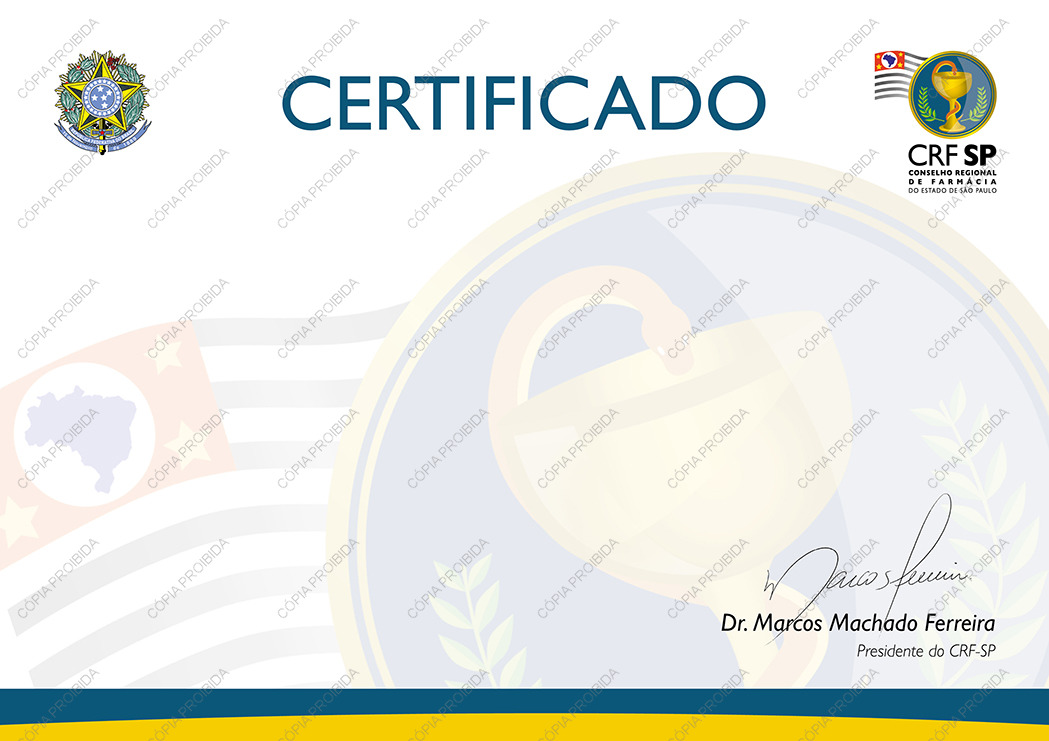
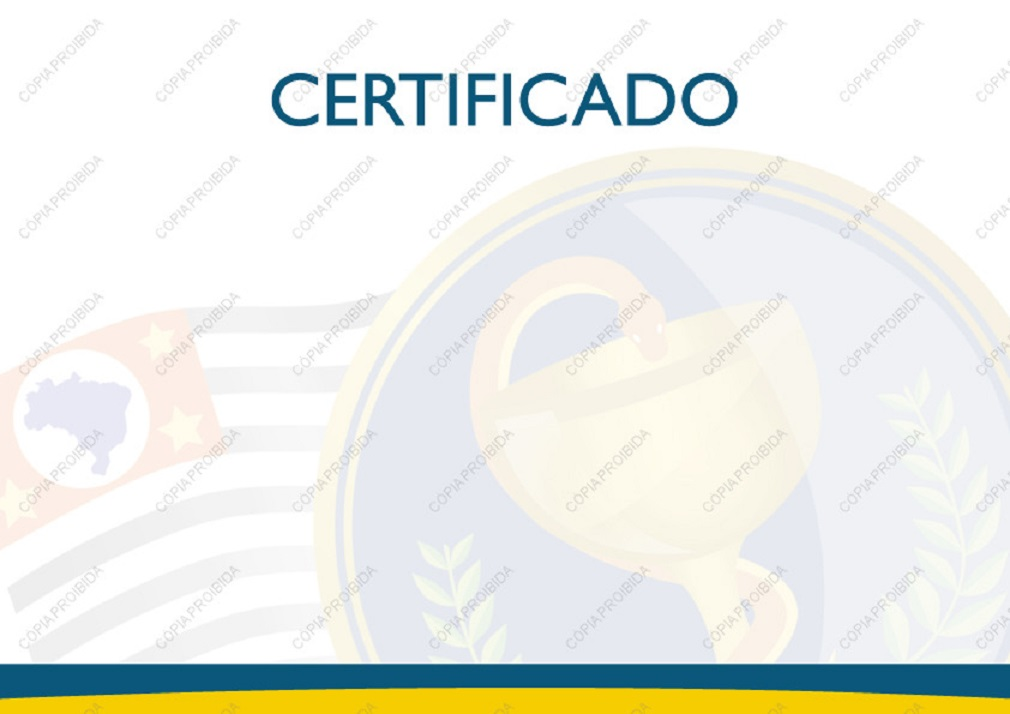
atualizaçoes 14/07

diff --git a/app/Controllers/Eventos.php b/app/Controllers/Eventos.php
@@ -173,7 +173,7 @@ class Eventos extends BaseController
                 $rules = [
                     'titulo' => 'trim|required|min_length[3]|max_length[60]',
                     'imagem' => 'uploaded[profile_image]', 'mime_in[profile_image,image/jpg,image/jpeg,image/gif,image/png]', 'max_size[profile_image,4096]',
-                    'resumo' => 'trim|required|min_length[100]|max_length[500]',
+                    'resumo' => 'trim|required|min_length[100]|max_length[1000]',
                 ];
                 // echo './public/img';exit;
                 if (!$this->validate($rules)) {
@@ -191,6 +191,7 @@ class Eventos extends BaseController
                             'dtInicio' => date($this->request->getVar('datainicial') . ' ' . $this->request->getVar('hinicial')),
                             'dtFim' => date($this->request->getVar('datafinal') . ' ' . $this->request->getVar('hfinal')),
                             'hora' => date('H:i:s', strtotime($this->request->getVar('datainicial') . ' ' . $this->request->getVar('hinicial'))),
+                            'userCreated' => session()->get('id'),
                         ];
 
                         if ($model->save($newData)) {
@@ -276,7 +277,7 @@ class Eventos extends BaseController
                             'dtInicio' => date($this->request->getVar('datainicial') . ' ' . $this->request->getVar('hinicial')),
                             'dtFim' => date($this->request->getVar('datafinal') . ' ' . $this->request->getVar('hfinal')),
                             'hora' => date('H:i:s', strtotime($this->request->getVar('datainicial') . ' ' . $this->request->getVar('hinicial'))),
-
+                            'userCreated' => session()->get('id'),
                         ];
 
                         if ($model->save($newData)) {
@@ -364,7 +365,7 @@ class Eventos extends BaseController
                 if (unlink($filePath)) {
                     $model->delete($product_id);
                     $session = session();
-                    $session->setFlashdata('success', 'Seu evento' . " " . $result['titulo'] . " " .  ' foi excluido com sucesso!');
+                    $session->setFlashdata('success', 'Seu evento' . " (" . $result['titulo'] . ") " .  ' foi excluido com sucesso!');
                     return redirect()->to(base_url("alterareventos"));
                 } else {
                     echo "Não foi possivel excluir, verifique permissões!";

diff --git a/app/Views/editativ.php b/app/Views/editativ.php
@@ -77,9 +77,11 @@
                         <?php endif; ?>
                         <form class="form-signin" method="post">
                             <div class="form-group">
+                           
                                 <div class="form-label-group">
                                     <select id="selectEvent" name="selectEvent" class="form-control" required>
-                                        <option selected disabled><? $data[0]['titulo'] ?></option>
+                                        <option selected disabled><?php if($data) { echo $titulo ;}?></option>
+                                        
                                         <?php
                                         foreach ($data as $key => $evento) {
                                             echo "<option value='" . $evento['id'] . "'>" . $evento['id'] . " - " . $evento['titulo'] . "</option>";
@@ -129,15 +131,11 @@
                             <div class="form-group col-sm-7">
                                 <div class="form-label-group">
                                     <select id="certificado" name="certificado" class="form-control">
-                                        <?
-                                        if ($data[0]['tipo'] == '1') {
-                                            $tipo = 'Gera certificado';
-                                         ?>
+                                   
                                         <option><?php $tipo ?></option>
                                         <option value="1" id="1">Gera certificado</option>
                                         <option value="2" id="2">Não gera certificado</option>
-
-                                        <? } ?>
+                           
                                     </select>
                                 </div>
                             </div>

diff --git a/app/Controllers/Atividades.php b/app/Controllers/Atividades.php
@@ -92,7 +92,7 @@ class Atividades extends BaseController
                         'dtInicio' => date($this->request->getVar('datainicial') . ' ' . $this->request->getVar('hinicial')),
                         'dtFim' => date($this->request->getVar('datafinal') . ' ' . $this->request->getVar('hfinal')),
                         'hora' => date('H:i:s', strtotime($this->request->getVar('datainicial') . ' ' . $this->request->getVar('hinicial'))),
-
+                        'userCreated' => session()->get('id'),
                     ];
 
                     $newData['atividade'] = htmlspecialchars($newData['atividade'], ENT_QUOTES, 'UTF-8');
@@ -138,11 +138,7 @@ class Atividades extends BaseController
                 'data' => $model1->findall(),
             ];
 
-            $dataAtiv = [
-                'title' => 'Editar evento',
-                'data' => $model->findall(),
-            ];
-
+          
 
             // var_dump($data); exit;
             helper(['form']);
@@ -167,7 +163,7 @@ class Atividades extends BaseController
                         'dtFim' => date($this->request->getVar('datafinal') . ' ' . $this->request->getVar('hfinal')),
                         'atividade' => $this->request->getVar('atividade'),
                         'hora' => date('H:i:s', strtotime($this->request->getVar('datainicial') . ' ' . $this->request->getVar('hinicial'))),
-
+                        'userCreated' => session()->get('id'),
                     ];
 
                     if ($model->save($newData)) {
@@ -182,7 +178,7 @@ class Atividades extends BaseController
                 }
             }
             echo view('templates/header', $data);
-            echo view('editativ', $result, $dataAtiv);
+            echo view('editativ', $result);
             echo view('templates/footer');
         }
     }

diff --git a/app/Views/certificadoVizualizacao.php b/app/Views/certificadoVizualizacao.php
@@ -30,6 +30,10 @@
             font-family: 'Oxygen', sans-serif;
         }
 
+        .p{
+            margin-top: -30px;
+        }
+
         h1,
         h2,
         h3,
@@ -87,20 +91,21 @@
         }
 
         article {
-            background-image: url(<?php echo(base_url('/public/img/certificadoProibido.jpg'));?>);
+            background-image: url(<?php echo (base_url('/public/img/certificado_Proibido2.jpg'));?>);
         }
+
     </style>
 </head>
 
 <body>
-<article id="conteudo-certificado" >
+<article id="conteudo-certificado"  >
     <?php if (count($data) > 0) {
             // var_dump($data);exit;
         ?>
             <section >
-                <p>Certificamos que <strong><?php echo $_SESSION['firstname'] . " "; ?><?php echo $_SESSION['lastname']; ?></strong></p>
-                <p>Participou do: <strong><?php echo $data['titulo']; ?></strong></p>
-                <p>Com carga horária de <strong>
+                <p class="p">Certificamos que <strong><?php echo $_SESSION['firstname'] . " "; ?><?php echo $_SESSION['lastname']; ?></strong></p>
+                <p class="p"> Participou do: <strong><?php echo $data['titulo']; ?></strong></p>
+                <p class="p">Com carga horária de <strong>
                 <?php echo $horas['horasTotais'];?> horas</strong>.</p>
 
                 <p class="data">Realizado nos dias <?php echo date_format(new DateTime($data['dtInicio']), "d/m"); ?> a <?php echo date_format(new DateTime($data['dtFim']), "d/m"); ?> de <?php echo date_format(new DateTime($data['dtFim']), "Y"); ?> em São Paulo - SP.</p>

diff --git a/app/Views/certificado.php b/app/Views/certificado.php
@@ -85,28 +85,24 @@
                 background-color: #FFF;
             }
         }
-        article{
-            background-image: url(<?php
 
-use App\Controllers\PdfController;
-
-echo(base_url('/public/img/certificado.jpg'));?>);
+        article {
+            background-image: url(<?php echo (base_url('/public/img/certificado.jpg')); ?>);
         }
-        
     </style>
 </head>
 
 <body>
-    <article id="conteudo-certificado" >
-    <?php if (count($data) > 0) {
+    <article id="conteudo-certificado">
+        <?php if (count($data) > 0) {
             // var_dump($data);exit;
         ?>
 
 
-            <section >
+            <section>
                 <p>Certificamos que <strong><?php echo $_SESSION['firstname'] . " "; ?><?php echo $_SESSION['lastname']; ?></strong></p>
                 <p>Participou do: <strong><?php echo $data['titulo']; ?></strong></p>
-                <p>Com carga horária de <strong><?php echo $horas['horasTotais'];?> horas</strong>.</p>
+                <p>Com carga horária de <strong><?php echo $horas['horasTotais']; ?> horas</strong>.</p>
 
                 <p class="data">Realizado nos dias <?php echo date_format(new DateTime($data['dtInicio']), "d/m"); ?> a <?php echo date_format(new DateTime($data['dtFim']), "d/m"); ?> de <?php echo date_format(new DateTime($data['dtFim']), "Y"); ?> em São Paulo - SP.</p>
 

diff --git a/app/Views/tdeventos.php b/app/Views/tdeventos.php
@@ -24,6 +24,7 @@
 
     .card-title {
         text-align: center;
+        margin-top: 5px;
     }
 
 
@@ -33,11 +34,6 @@
         border-radius: 10px;
         max-width: 370px;
         margin: 5px;
-    }
-
-    .card-title {
-        text-align: center;
-        margin-top: 5px;
     }
 
     .cad,
@@ -55,13 +51,18 @@
         box-shadow: 0 12px 16px 0 rgba(0, 0, 0, 0.24), 0 17px 50px 0 rgba(0, 0, 0, 0.19);
     }
 
-    p {
+    .card-text {
   /* max-width: 90ch; */
   /* width: 20em;  */
   /* max-width: 300px; */
+  margin-top: 20px;
   overflow: hidden;
   text-overflow: ellipsis;
   white-space: nowrap;
+}
+
+img{
+    max-height: 200px;
 }
 
 
@@ -90,6 +91,7 @@
                         <div class="card-body">
                             <img src="<?php echo base_url("/public/img") . "/" . $evento['imagem'] ?>" alt="" width="100%">
                             <p class="card-text"><?php echo $evento['resumo']; ?></p>
+                            <p> <strong>Data:</strong>  <?php echo date_format(new DateTime($evento['dtInicio']), "d-m-Y"); ?> até <?php echo date_format(new DateTime($evento['dtFim']), "d-m-Y"); ?></p>
                         </div>
                         <div class="card-footer text-muted">
                             <ul class="nav nav-pills ">

diff --git a/app/Views/editeventos.php b/app/Views/editeventos.php
@@ -92,7 +92,7 @@
                             </div>
                             <div class="form-group">
                                 <div class="form-label-group">
-                                    <textarea name="resumo" id="resumo" class="form-control" minilength="100" maxlength="500" placeholder="Resumo" required><?= $resumo ?></textarea>
+                                    <textarea name="resumo" id="resumo" class="form-control" minilength="100" maxlength="1000" placeholder="Resumo" required><?= $resumo ?></textarea>
                                 </div>
                             </div>
                             <div class="form-group col-sm-6 data" id="inicial">

diff --git a/app/Views/cadevento.php b/app/Views/cadevento.php
@@ -160,7 +160,7 @@
                             </div>
                             <div class="form-group">
                                 <div class="form-label-group">
-                                    <textarea name="resumo" id="resumo" class="form-control" minilength="100" maxlength="500" placeholder="Resumo" required autofocus></textarea>
+                                    <textarea name="resumo" id="resumo" class="form-control" minilength="100" maxlength="1000" placeholder="Resumo" required autofocus></textarea>
                                 </div>
                             </div>
                             <div class="form-group col-sm-6 data" id="inicial">

diff --git a/app/Models/AtividadeModel.php b/app/Models/AtividadeModel.php
@@ -9,7 +9,7 @@ class AtividadeModel extends Model
     protected $table = 'atividade_evento';
     protected $primaryKey = 'id';
     protected $returnType     = 'array';
-    protected $allowedFields = ['id', 'idEvento', 'titulo', 'tipo', 'dtInicio', 'dtFim', 'created_at', 'descricao', 'atividade'];
+    protected $allowedFields = ['id', 'idEvento', 'titulo', 'tipo', 'dtInicio', 'dtFim', 'created_at', 'descricao', 'atividade', 'userCreated'];
 
     /**
      * Recebe como parâmetro o idUser e o idAtividade e os insere no banco, registrando que a atividade X foi concluída pelo usuário Y na data e hora atual

diff --git a/app/Models/EventoModel.php b/app/Models/EventoModel.php
@@ -9,7 +9,7 @@ class EventoModel extends Model
     protected $table = 'eventos';
     protected $primaryKey = 'id';
     protected $returnType     = 'array';
-    protected $allowedFields = ['id', 'titulo', 'created_at', 'imagem', 'resumo', 'dtInicio', 'dtFim'];
+    protected $allowedFields = ['id', 'titulo', 'created_at', 'imagem', 'resumo', 'dtInicio', 'dtFim', 'userCreated'];
 
     /**
      * Recebe como parâmetro o idUser e o idEvento e os insere no banco, registrando que a atividade X foi concluída pelo usuário Y na data e hora atual

diff --git a/app/Views/cadativ.php b/app/Views/cadativ.php
@@ -144,7 +144,6 @@
                                     </div> -->
                                 </div>
                             </div>
-                            <?php echo date_format(new DateTime($data[0]['dtInicio']), "Y-m-d");?>
                             <div class="form-group  data" id="inicial">
                                 <div class="form-label-group">
                                     <label for="">Inicial :</label>
